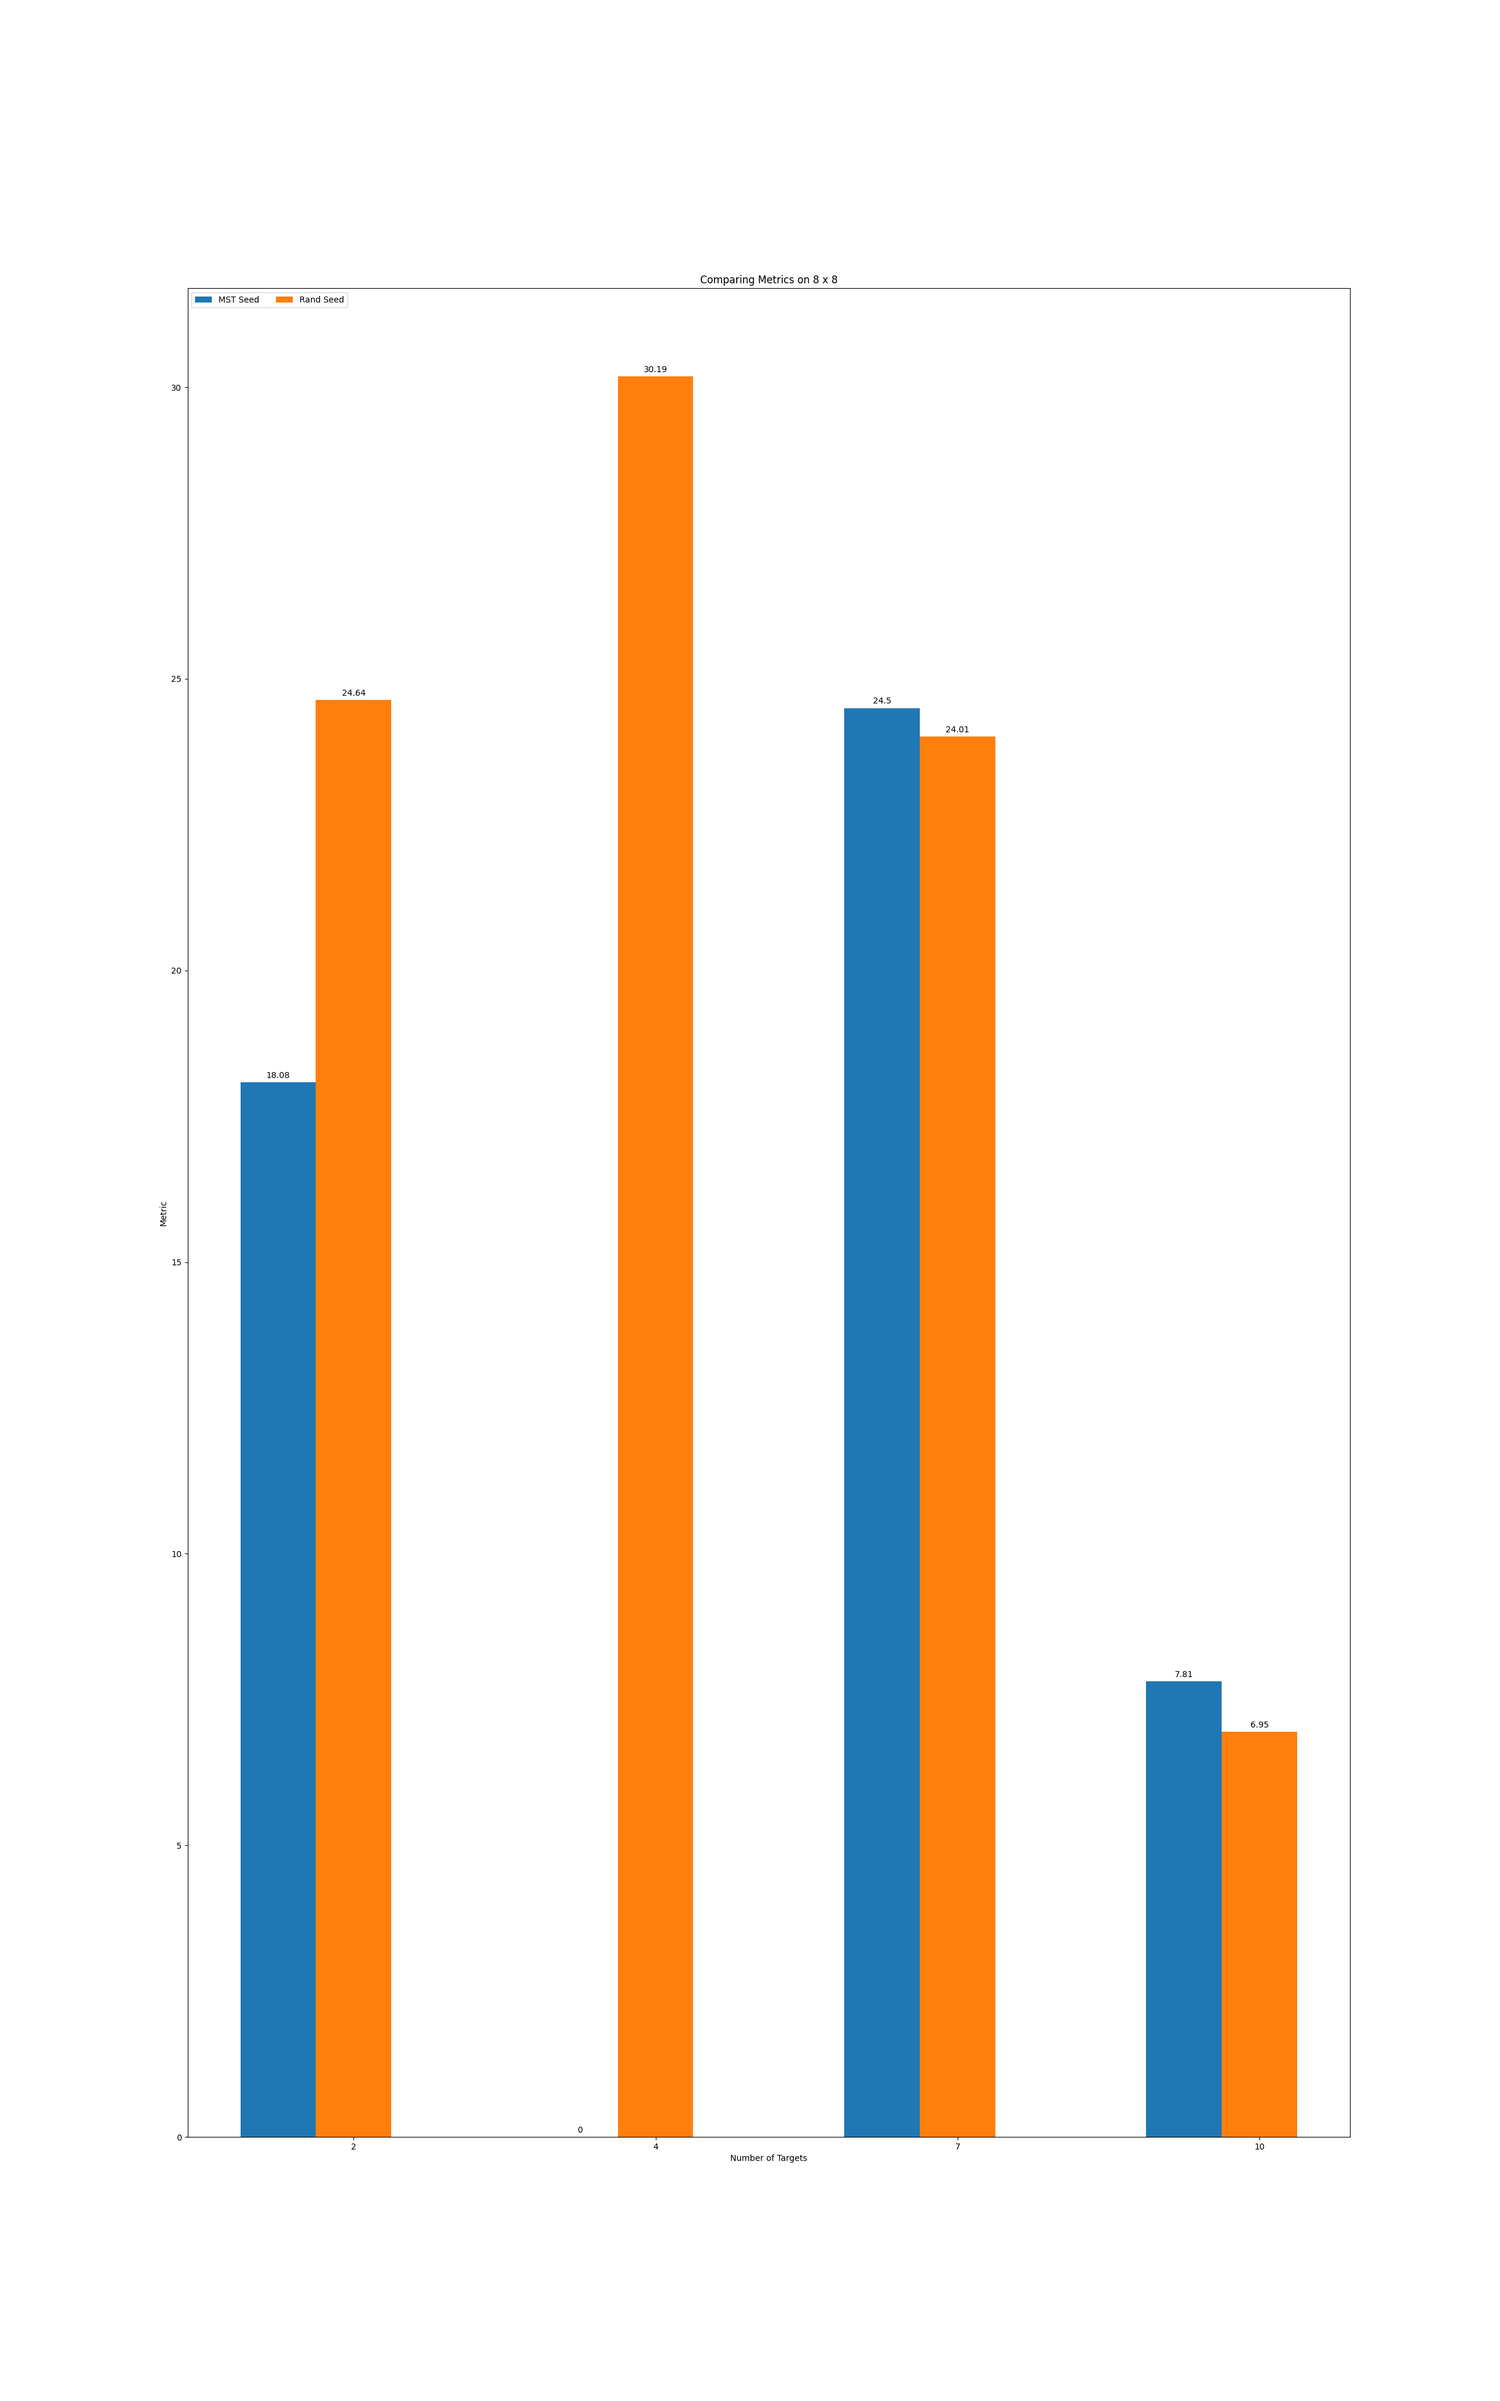
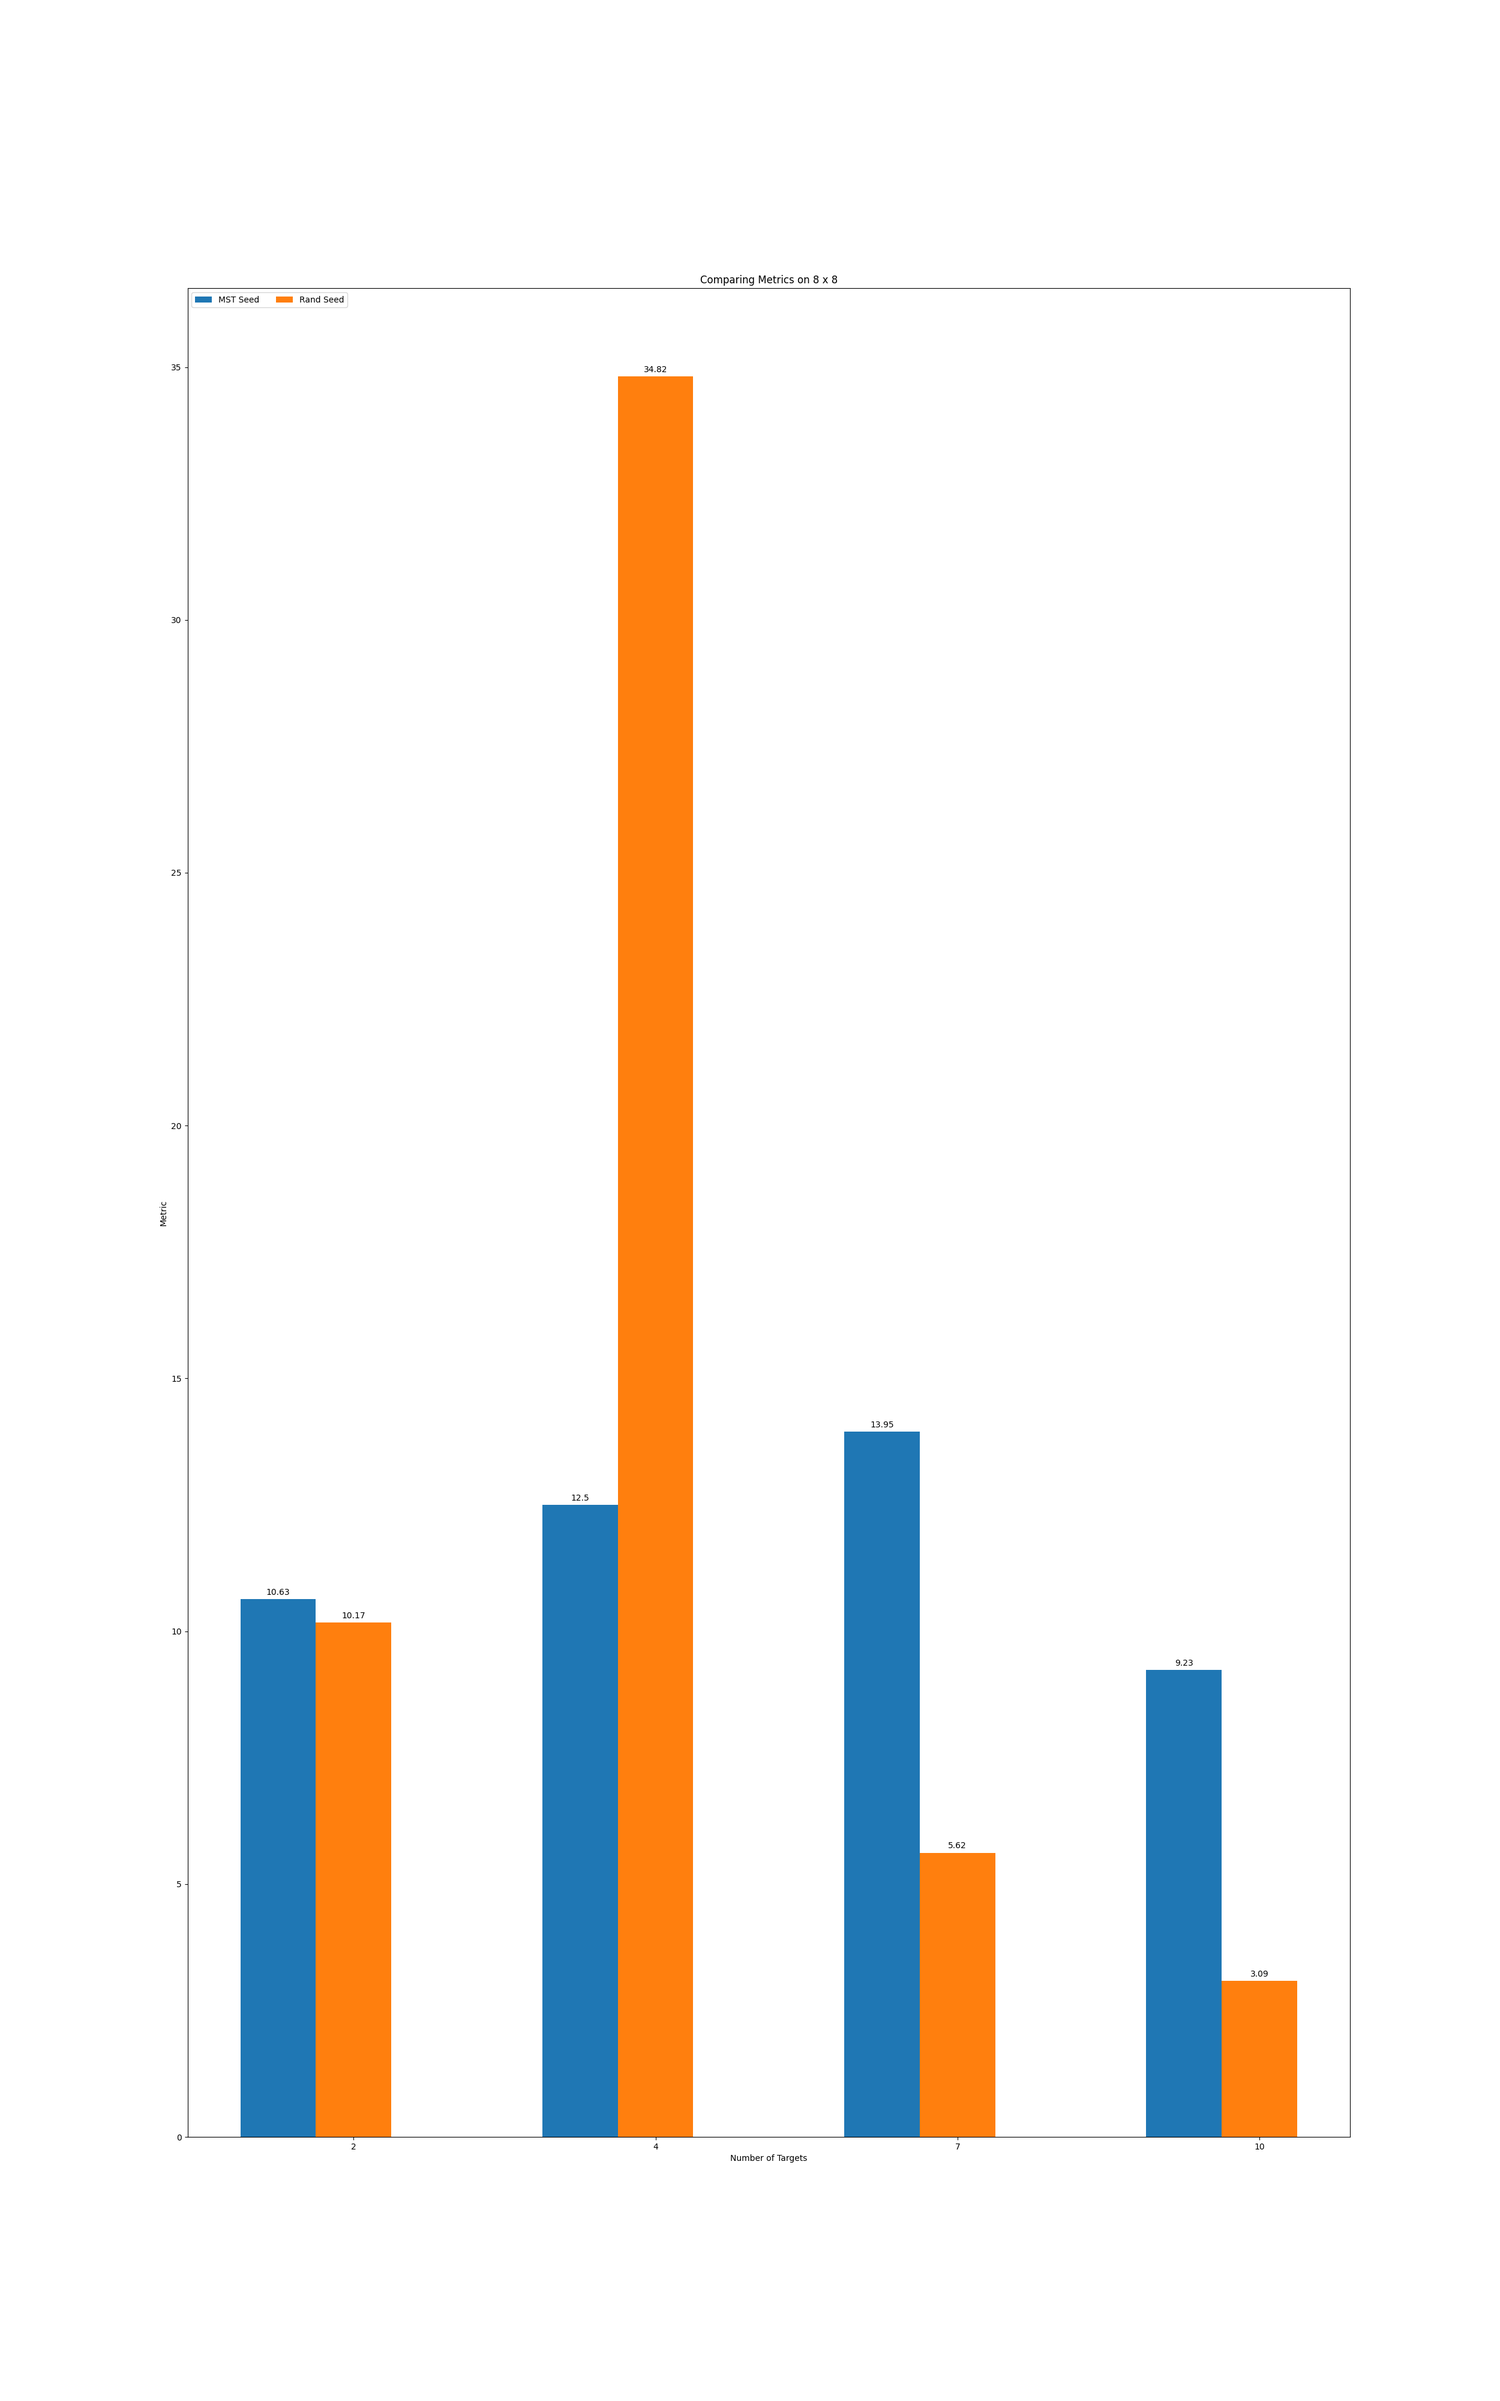
seed comparison results

diff --git a/results.py b/results.py
@@ -380,7 +380,7 @@ def main():
     #############################################
 
     results_dir = "results/seed_comparison"
-    random_samples = 500
+    random_samples = 200
     target_counts = [2, 4, 7, 10]
     graph_sizes = [7, 10, 12]
     for graph_size in graph_sizes:
